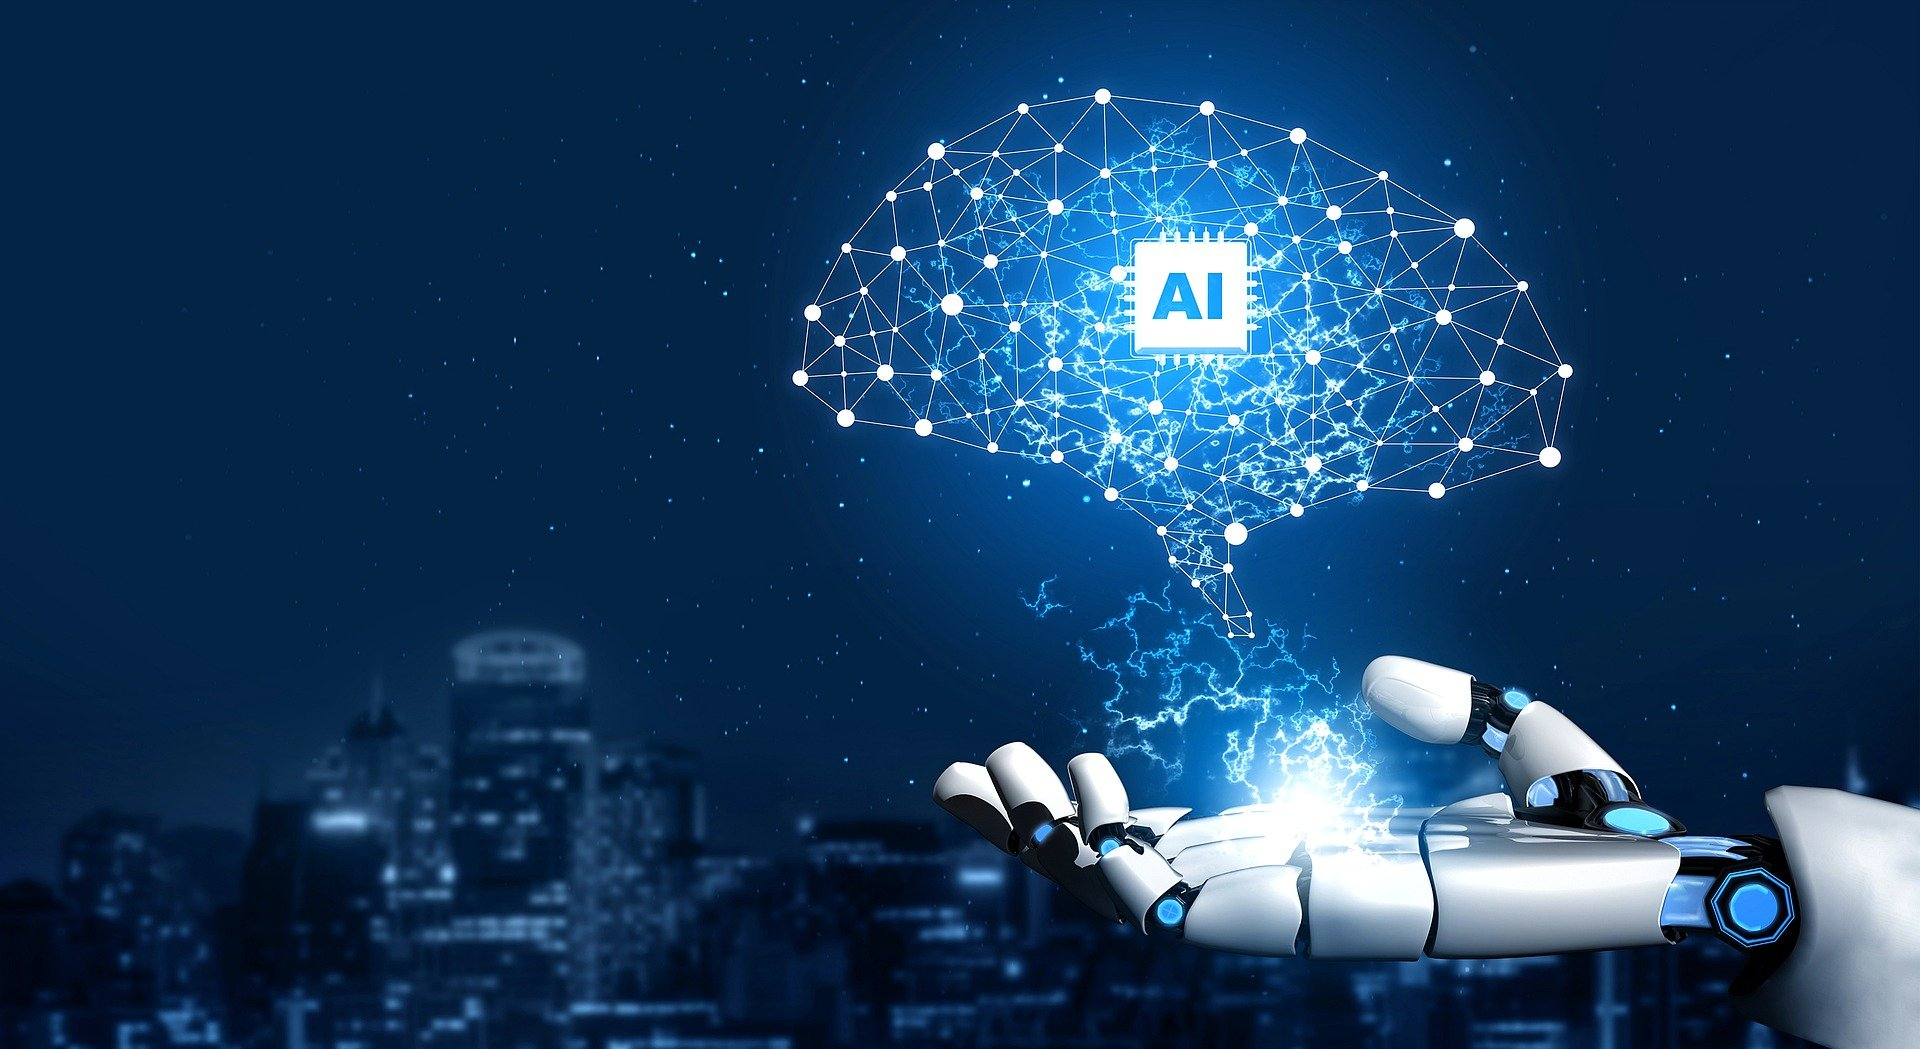
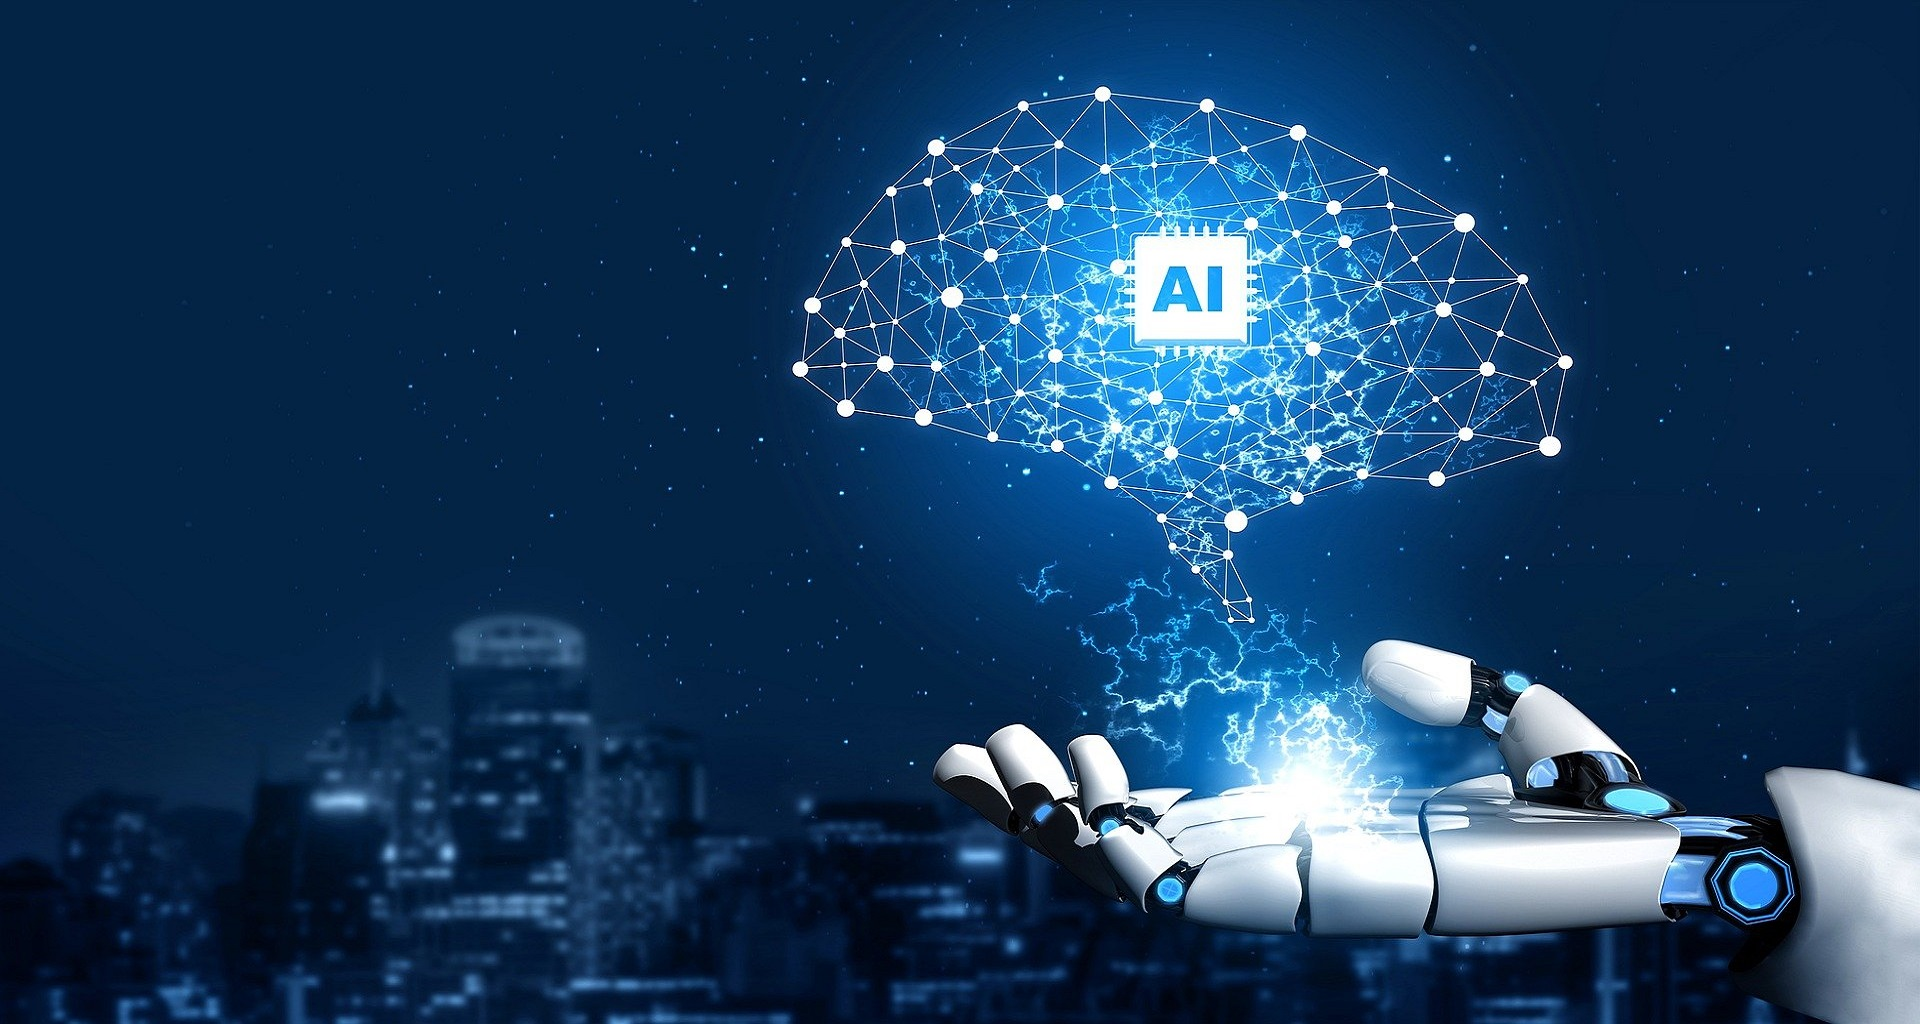
.

diff --git a/index.html b/index.html
@@ -34,19 +34,29 @@
     src: url("fonts/SDSwaggerTTF.ttf");
     font-weight: normal;
     font-style: normal;}
+    @font-face {
+    font-family: 'jalnan';
+    src: url("fonts/Jalnan.ttf");
+    font-weight: normal;
+    font-style: normal;}
+    @font-face {
+    font-family: 'GangwonEdu';
+    src: url('https://cdn.jsdelivr.net/gh/projectnoonnu/noonfonts_2201-2@1.0/GangwonEdu_OTFBoldA.woff') format('woff');
+    font-weight: normal;
+    font-style: normal;
+}
     </style>
     
     <link rel="stylesheet" href="https://cdn.jsdelivr.net/npm/xeicon@2.3.3/xeicon.min.css">
     <link rel="stylesheet" href="./css/normalize.css">
 
 <style>
-    * { margin: 0; padding: 0; font-family: 'swagger'; }
-    body, html { font-family: 'Noto Sans KR', sans-serif; width: 100%; } 
+    * { margin: 0; padding: 0;}
+    body, html { font-family: 'jalnan', sans-serif; width: 100%; } 
     ul { list-style: none; } 
     a { text-decoration: none; color: #333; }
 
- /*   .vs_tit { font-family: 'scB'; }
-    .vs_com { font-family: 'Nanum Gothic', sans-serif; } */
+
     i[class*='xi'] { font-size:28px; color:#000; }
     i[class*='xi']:hover { color:rgb(226, 55, 25); }
 
@@ -83,10 +93,20 @@
     .img_box li a img { display: block; width: 100%; height: auto;}
     .img_box .tit_box { position: absolute; top: 50px; left: 50px; color: #fff; 
         text-shadow: 1px 1px 1px #000; padding-left: 40px;} 
-    .vs_tit { font-size:42px; line-height: 1.6;}
-    .vs_com { font-size: 16px; padding-top: 40px;}
-    #ft { clear:both; width: 100%; }
+    .vs_tit { font-size:43px; line-height: 1.6; font-family: 'jalnan' }
+    .vs_com { font-size: 20px; padding-top: 40px;  font-family: 'GangwonEdu'}
 
+    .grid_box { clear: both; width: 100%;}
+    .grid_wrap { clear: both; width: 100%;}
+    .grid_wrap li { float: left; width: ; background-position: center center;}
+    .grid_wrap li .item1 { }
+
+    .col1 { width: 8.33333%;}
+    .col2 { width: 16.66667%;}
+    .col3 { width: 25%;}
+    .col4 { width: 33.33333;}
+    .grid_wrap li a { display: block; padding: 28px;}
+    #ft { clear:both; width: 100%; }
 
 </style>
 </head>
@@ -158,7 +178,7 @@
                 <ul class="img_box">
                     <li>
                         <a href="https://www.sktelecom.com/view/introduce/vision.do">
-                            <img src="./img/sk02.jpg " alt="비전" class="pic">
+                            <img src="./img/sk01.jpg " alt="비전" class="pic">
                             <div class="tit_box">
                                 <h2 class="vs_tit">AI & Digital Infra <br>서비스 컴퍼니</h2>
                                 <p class="vs_com">SK텔레콤은 안정적인 유.무선 통신 인프라와 AI기반 ICT 기술과 서비스를 통해, <br>고객의 ICT 경험이 삶의 풍요로움을 실현할 수 있도록 <br>혁신의 여정을 이어갑니다.</p>
@@ -167,7 +187,7 @@
                     </li>
                     <li>
                         <a href="https://www.sktelecom.com/view/manage/intro.do">
-                            <img src="./img/sk01.jpg " alt="ESG추진방향" class="pic">
+                            <img src="./img/sk02.jpg " alt="ESG추진방향" class="pic">
                             <div class="tit_box">
                                 <h2 class="vs_tit">ESG 경영을 통한 <br>지속 가능한 성장</h2>
                                 <p class="vs_com">SK텔레컴은 ICT기술을 기반으로 탄소 배출 절감.사회 안전망 구축 등 <br>지속 가능한 사회를 위해 노력하고 있습니다.</p>
